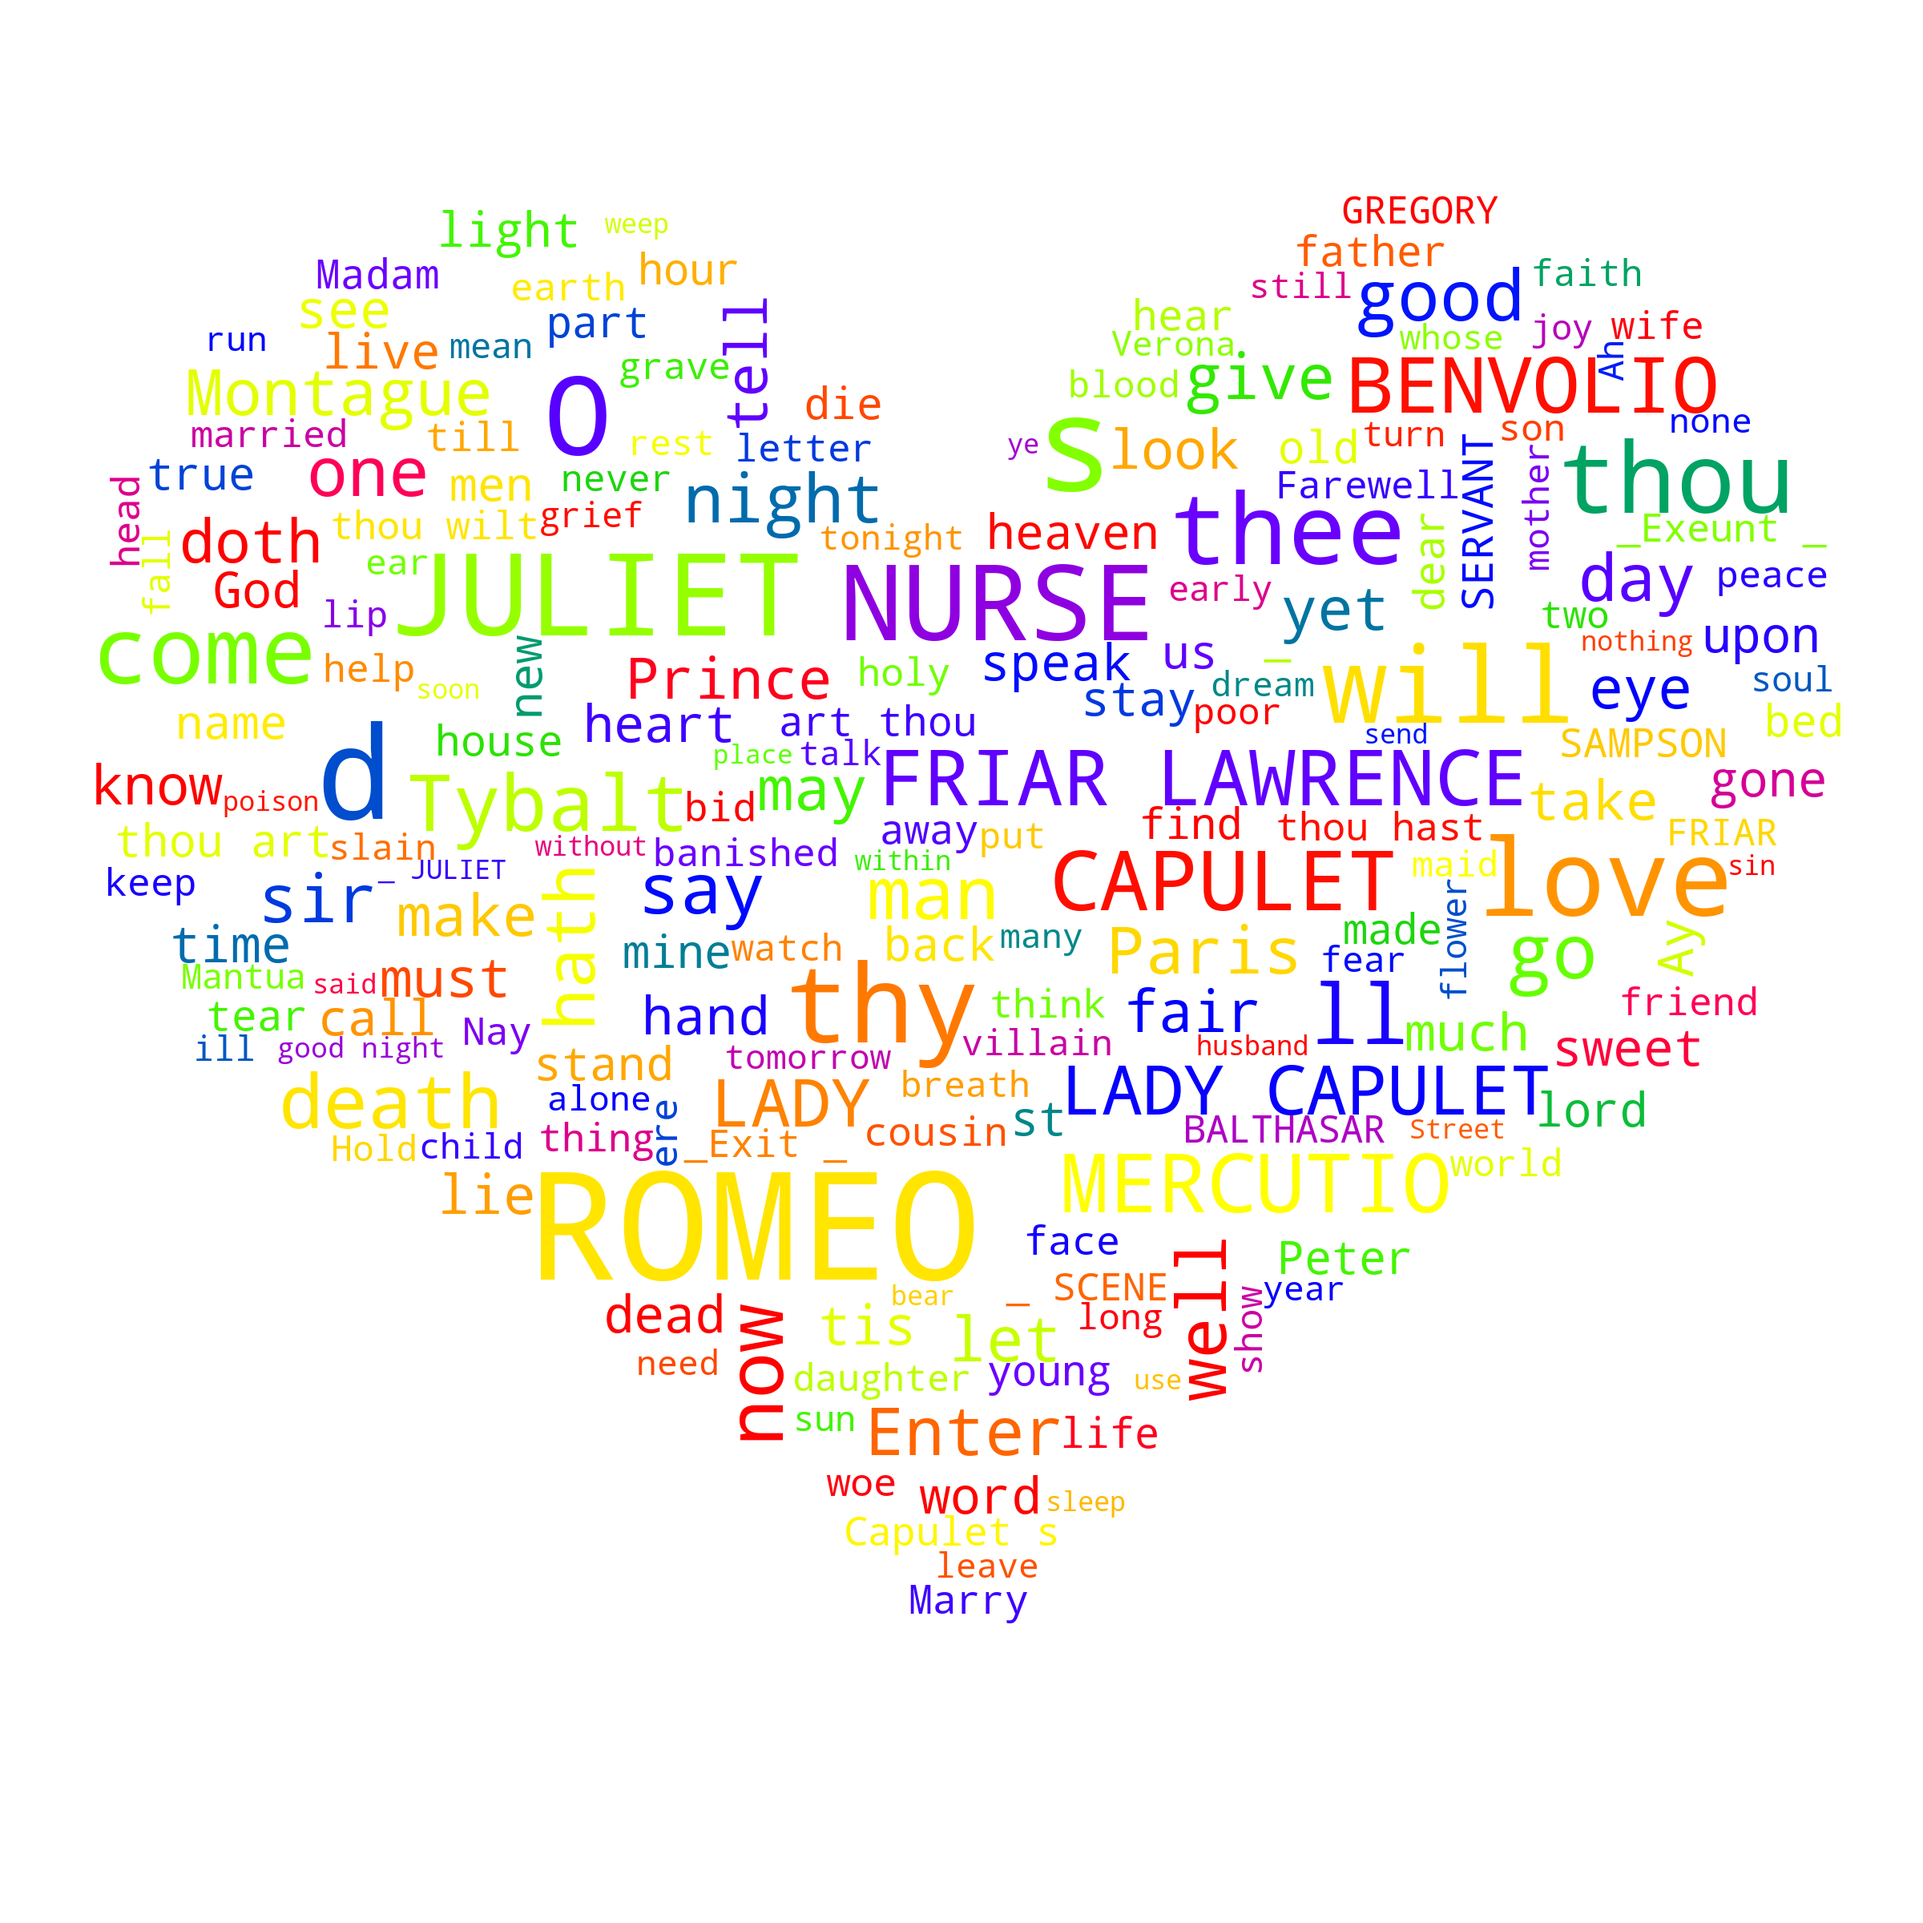
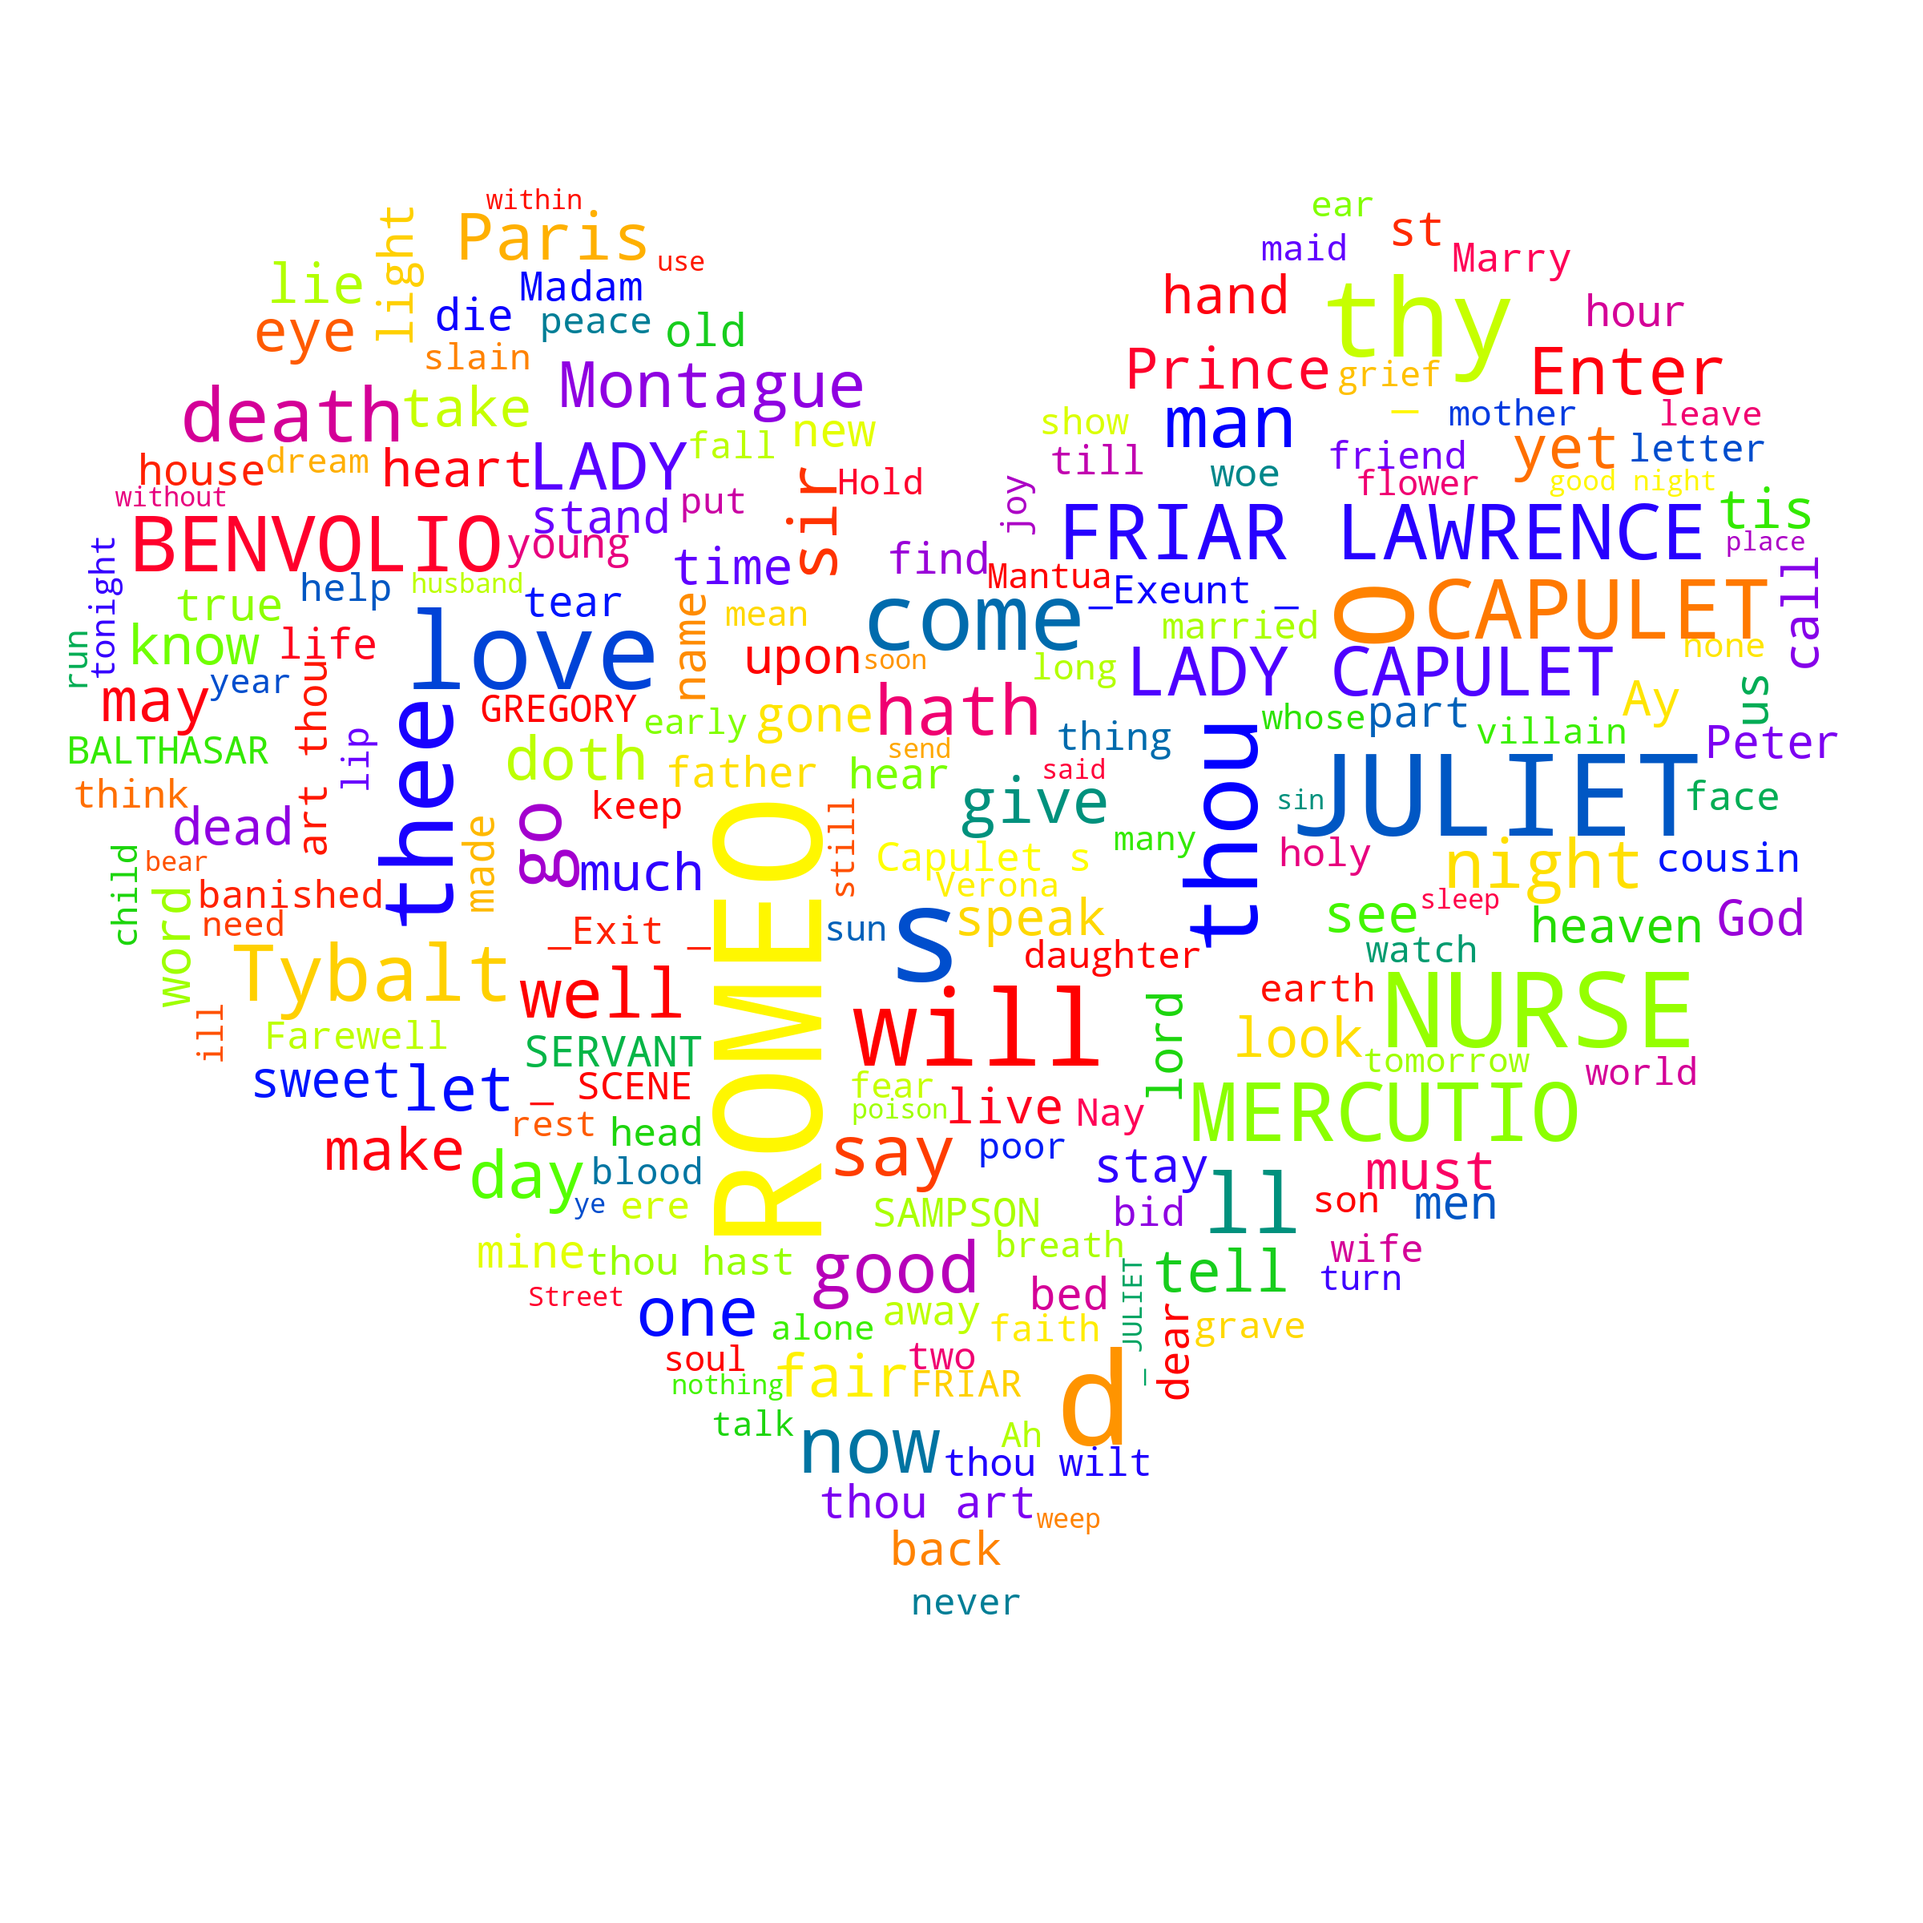
NLP hw assignment working

Changed region(s): [[0.0312, 0.0938, 0.9688, 0.8438]]

diff --git a/JohnWordCloud.py b/JohnWordCloud.py
@@ -1,0 +1,125 @@
+import nltk
+import imageio
+import pandas as pd
+import matplotlib.pyplot as plt
+
+from wordcloud import WordCloud
+from textblob import TextBlob
+from pathlib import Path
+from nltk.corpus import stopwords
+from operator import itemgetter
+
+blob = TextBlob(Path("book of John text.txt").read_text())
+
+stops = stopwords.words("english")
+
+more_stops = [
+    "thy",
+    "ye",
+    "verily",
+    "thee",
+    "hath",
+    "say",
+    "thou",
+    "art",
+    "shall",
+    "unto",
+    "said",
+    "therefore",
+    "saith",
+    "man",
+    "one",
+    "things",
+    "come",
+    "world",
+    "answer",
+    "answered",
+    "came",
+    "may",
+    "disciples",
+    "son",
+    "also",
+    "went",
+    "sent",
+    "cometh",
+    "life",
+    "lord",
+    "go",
+    "even",
+    "witness",
+    "yet",
+    "given",
+    "see",
+    "word",
+    "heard",
+    "spake",
+    "made",
+    "hast",
+    "many",
+    "truth",
+    "believed",
+    "saying",
+    "day",
+    "knew",
+    "light",
+    "name",
+    "us",
+    "hour",
+    "give",
+    "water",
+    "works",
+    "feast",
+    "take",
+    "love",
+    "might",
+    "seen",
+    "saw",
+    "called",
+    "forth",
+    "would",
+    "another",
+    "bear",
+    "true",
+]
+stops += more_stops
+
+items = blob.word_counts.items()
+items = [item for item in items if item[0] not in stops]
+# print(items)
+
+sorted_items = sorted(items)
+sorted_items = sorted(items, key=itemgetter(1), reverse=True)
+top15 = sorted_items[:15]
+# print(top15)
+
+###getting words into one long string
+
+top15list = []
+top15words = []
+top15string = ""
+
+for word in top15:
+    top15list += word
+
+for i, word in enumerate(top15list):
+    if i % 2 == 0:
+        top15words.append(word)
+
+for word in top15words:
+    top15string += word + " "
+
+
+##### wordcloud part
+mask_image = imageio.imread("mask_circle.png")
+
+wordcloud = WordCloud(colormap="prism", mask=mask_image, background_color="white")
+
+text = top15string
+
+wordcloud = wordcloud.generate(text)
+
+wordcloud = wordcloud.to_file("BookOfJohnCircle.png")
+
+plt.imshow(wordcloud)
+
+print("done")
